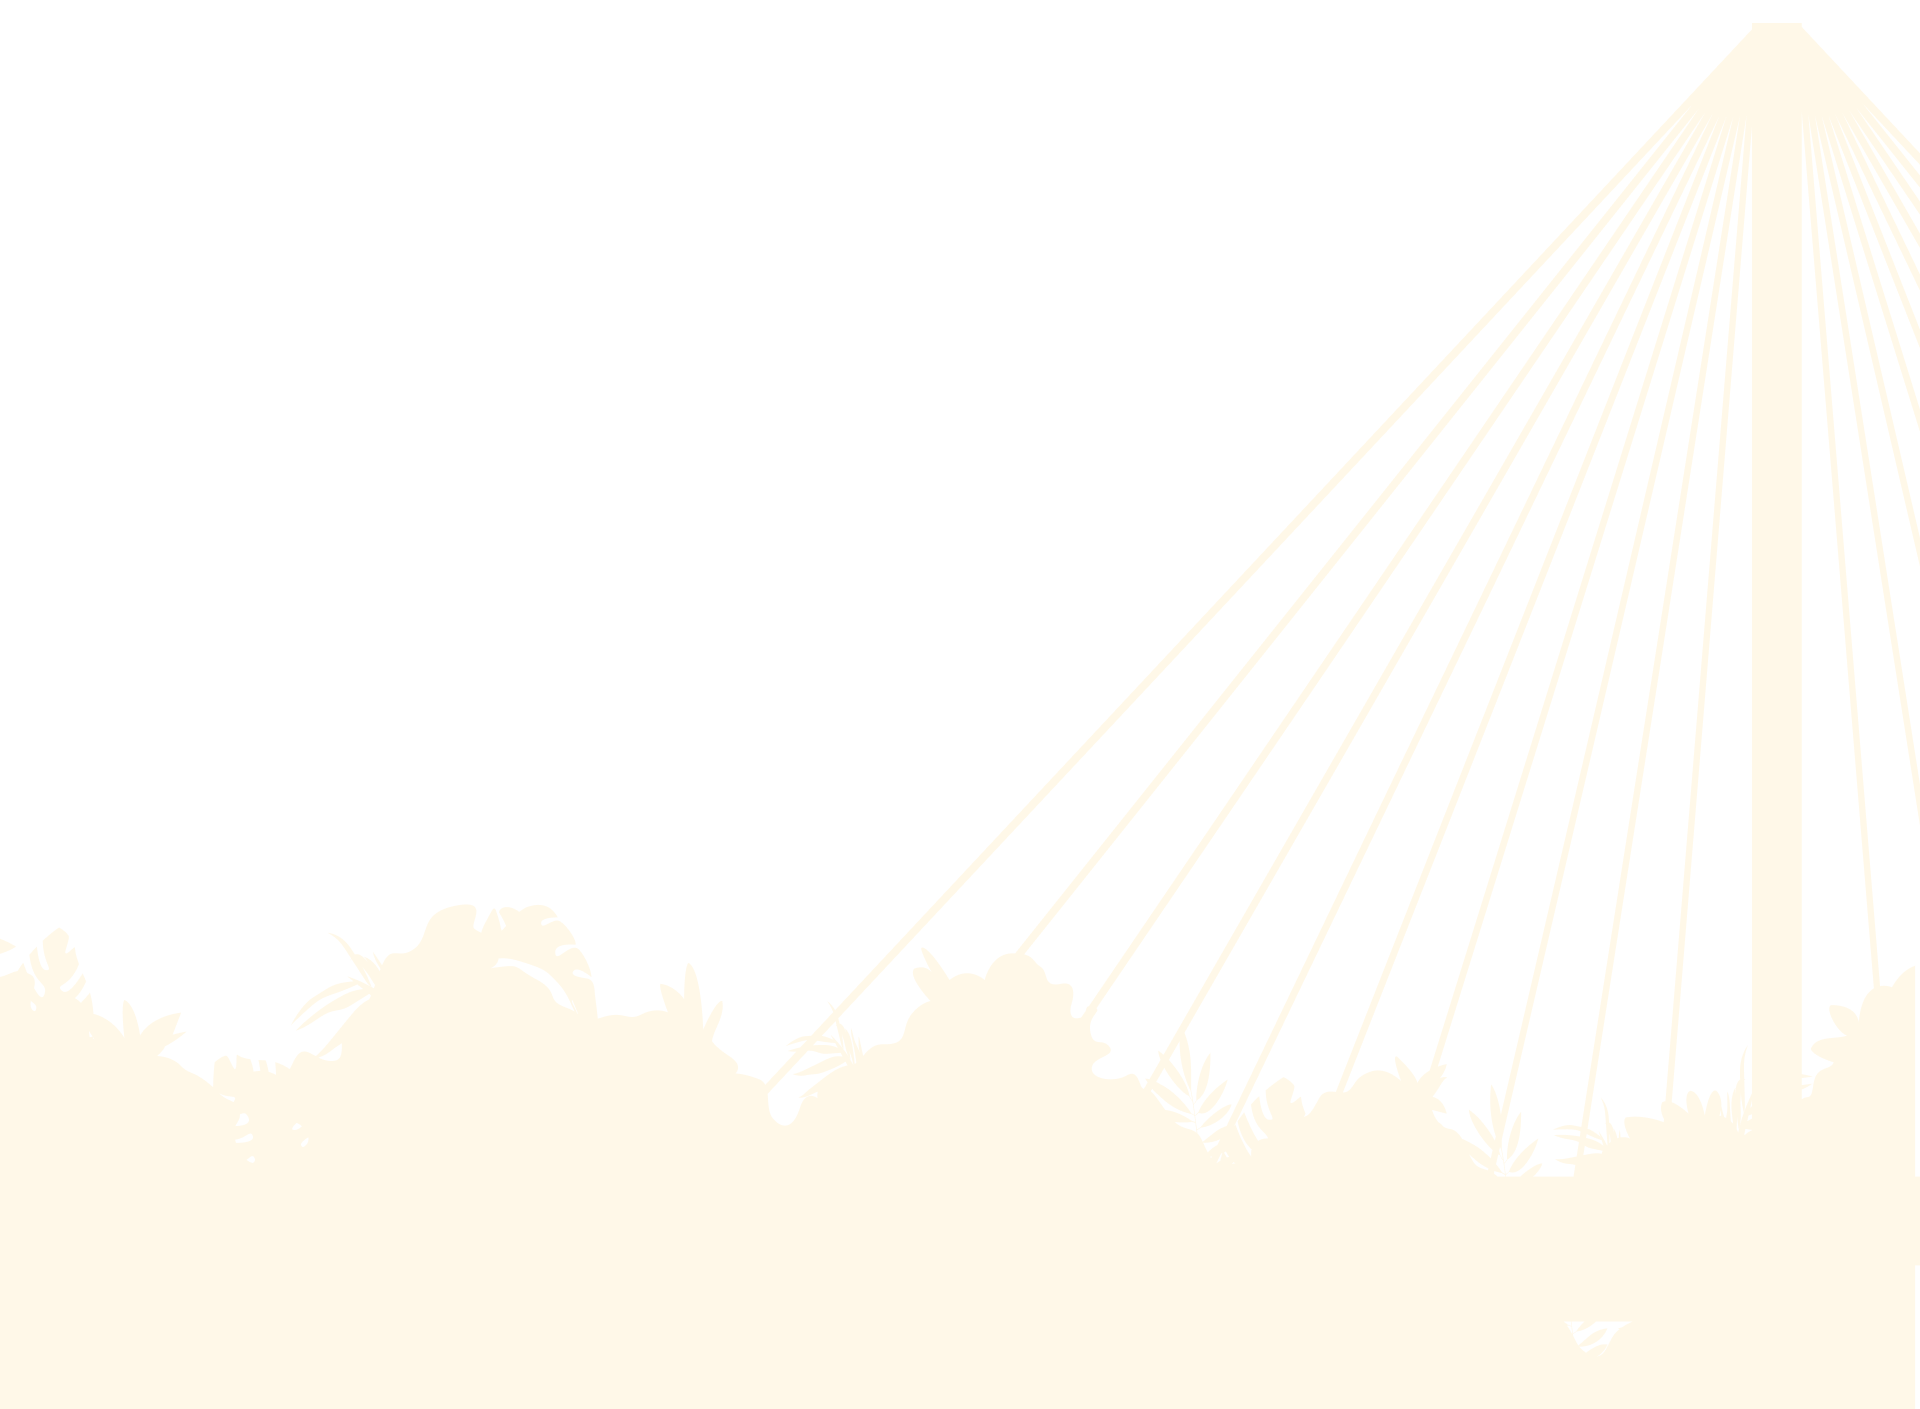
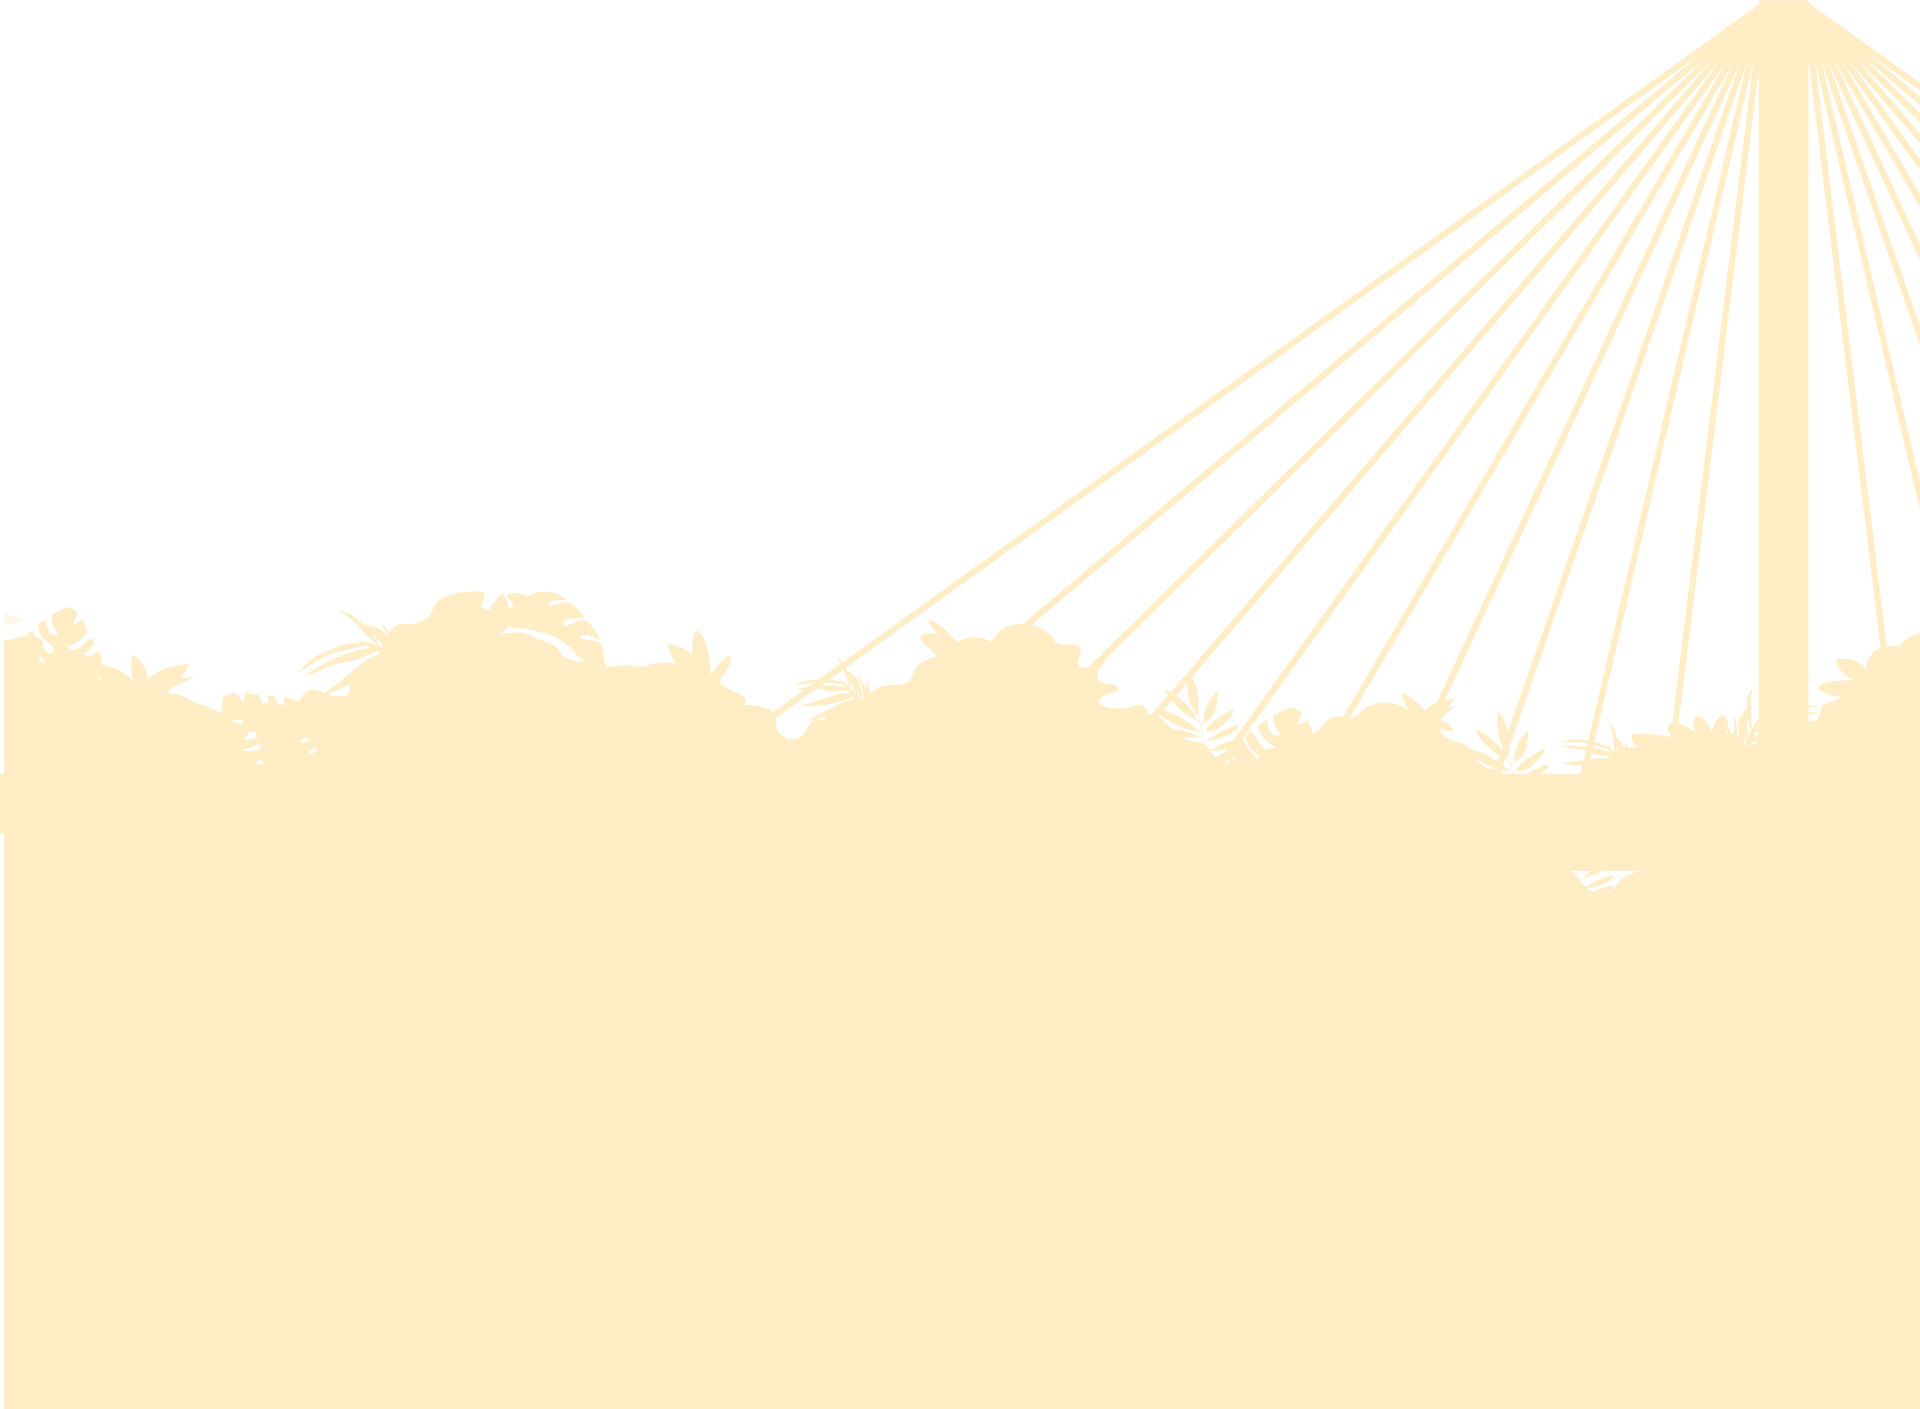
New comments section

diff --git a/app/quevedo/page.tsx b/app/quevedo/page.tsx
@@ -6,6 +6,7 @@ import ImageGallery from '../Components/ImageGallery'
 import { Tab, Tabs } from '../Components/Tabs'
 import NewButtonOne from '../Components/NewButtonOne'
 import NewButtonTwo from '../Components/NewButtonTwo'
+import CommentsCard from '../Components/CommentsCard'
 
 export default function Home () {
   const images = [
@@ -120,26 +121,25 @@ export default function Home () {
       </section>
 
       {/* ---------- Testimonios ---------- */}
-    <section className='relative bg-hcayellow md:bg-opacity-0'>
-      <div className='container mx-auto flex flex-col md:flex-row lg:mt-40 xl:mt-[20rem] justify-center items-center gap-2'>
+    <section className='relative bg-hcalightyellow md:bg-opacity-0'>
+      {/* <div className='container mx-auto flex flex-col md:flex-row lg:mt-40 xl:mt-[20rem] justify-center items-center gap-2'> */}
+      <div className='container mx-auto flex flex-col md:flex-row lg:mt-20 xl:mt-[4rem] justify-center items-center gap-2'>
         <div className="flex justify-center md:p-4">
-          <Image
-            src="/images/quevedo/testimonio-1-quevedo.png"
-            alt="Primer testimonio"
-            width={800}
-            height={324}
+          <CommentsCard
+            image='/images/quevedo/mia.png'
+            name='Mia, 17 años'
+            text='Me he sentido muy feliz ya que he aprendido a convivir con más personas, a tratar con ellas, a cada quien dar nuestras opiniones y ser libres en nuestro propio pensar. Como jóvenes tenemos todos un pensar diferente y al hablar entre nosotros podemos compartir estas experiencias bonitas y también cada quien dar su perspectiva desde una manera diferente de pensar.'
           />
         </div>
         <div className="flex justify-center md:p-4">
-          <Image
-            src="/images/quevedo/testimonio-2-quevedo.png"
-            alt="Primer testimonio"
-            width={800}
-            height={324}
+          <CommentsCard
+            image='/images/quevedo/jander.png'
+            name='Jander, 18 años'
+            text='Quiero aprender más sobre justicia social y medio ambiente, crear lugares en la ciudad donde podamos ser nosotros mismo, divertirnos, sin sentirnos presionados por la inseguridad. Estamos contribuyendo activamente, y de aquí a buscamos un bienestar de los jóvenes ya que algunos años, hacer un cambio real y gratificante para la ciudad.'
           />
         </div>
       </div>
-      <div className='absolute -z-50 w-full -top-96 xl:-top-[28rem]'>
+      <div className='absolute -z-50 w-full -top-72 md:top-16 xl:-top-[23rem]'>
         <Image
           src="/images/comments-background-quevedo.png"
           alt="Imagen de portada"
@@ -152,7 +152,7 @@ export default function Home () {
     </section>
 
     {/* ---------- Como nos sentimos ---------- */}
-    <section className='bg-hcayellow'>
+    <section className='bg-hcalightyellow'>
       <div className='container mx-auto flex flex-col justify-center items-center mt-20'>
         <div className='flex flex-col items-center'>
           <Image

diff --git a/app/riobamba/page.tsx b/app/riobamba/page.tsx
@@ -6,6 +6,7 @@ import ImageGallery from '../Components/ImageGallery'
 import { Tab, Tabs } from '../Components/Tabs'
 import NewButtonTwo from '../Components/NewButtonTwo'
 import NewButtonOne from '../Components/NewButtonOne'
+import CommentsCard from '../Components/CommentsCard'
 
 export default function Home () {
   const images = [
@@ -145,31 +146,29 @@ export default function Home () {
 
     {/* ---------- Testimonios ---------- */}
     <section className='relative'>
-      <div className='container mx-auto flex flex-col md:flex-row lg:mt-96 xl:mt-[30rem] justify-center items-center gap-2'>
+      <div className='container mx-auto flex flex-col md:flex-row lg:mt-20 xl:mt-[10rem] justify-center items-center gap-2'>
         <div className="flex justify-center md:p-4">
-          <Image
-            src="/images/riobamba/testimonio-1-riobamba.png"
-            alt="Primer testimonio"
-            width={800}
-            height={324}
+          <CommentsCard
+            image='/images/riobamba/samanta.png'
+            name='Samanta, 22 años'
+            text='Considero que la motivación es el primer paso para el accionar, el sentirse parte de algo también impulsa las habilidades de cada uno de   los integrantes del grupo núcleo, impulsa mis habilidades y las ganas de utilizarlas para crear una mejor realidad para los adolescentes de mi querida ciudad Riobamba.'
           />
         </div>
         <div className="flex justify-center md:p-4">
-          <Image
-            src="/images/riobamba/testimonio-2-riobamba.png"
-            alt="Primer testimonio"
-            width={800}
-            height={324}
+          <CommentsCard
+            image='/images/riobamba/diego.png'
+            name='Diego, 17 años'
+            text='Somos personas visionarias que generamos un gran valor, estamos aquí para ayudar a los demás, porque somos  agentes de cambio, Todos creemos en un bien común, tomamos decisiones fundamentales en el proyecto que vamos a desarrollar y valoramos las opiniones diversas porque buscamos un objetivo de bienestar común.'
           />
         </div>
       </div>
-      <div className='absolute -z-50 w-full -top-20'>
+      <div className='absolute -z-50 w-full -top-36'>
         <Image
-          src="/images/comments-background.png"
+          src="/images/comments-background-riobamba.png"
           alt="Imagen de portada"
           layout='responsive'
-          width={1920}
-          height={300}
+          width={1973}
+          height={590}
           priority
         />
       </div>

diff --git a/app/Components/CommentsCard.tsx b/app/Components/CommentsCard.tsx
@@ -1,0 +1,21 @@
+import React from 'react'
+
+interface CommentsCardProps {
+  image: string
+  name: string
+  text: string
+}
+
+const CommentsCard: React.FC<CommentsCardProps> = ({ image, name, text }) => {
+  return (
+    <figure className="flex flex-col items-center justify-center bg-hcasilver p-4 shadow-lg rounded-xl m-2 flex-auto min-w-[200px]">
+      <img className="py-6" src={image} alt="Logo" />
+      <h3 className='font-bold'>{name}</h3>
+      <p className="text-center mt-2 px-4">
+        {text}
+      </p>
+    </figure>
+  )
+}
+
+export default CommentsCard
